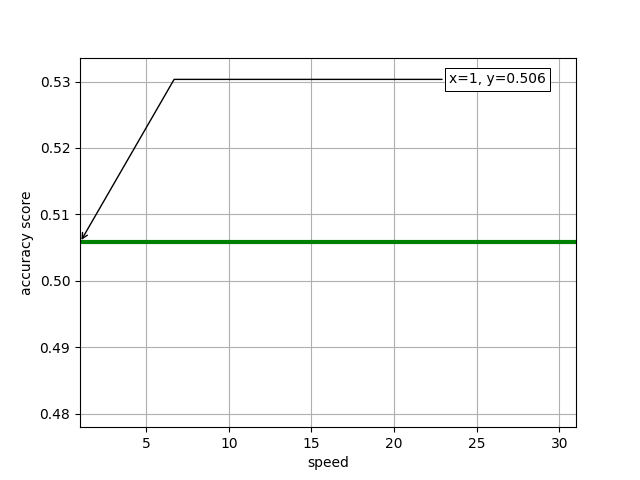
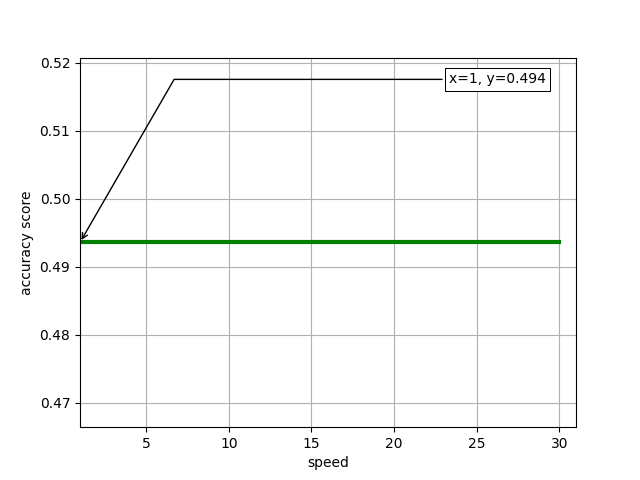
Edited to showcase pngs

diff --git a/offLineDQN2.py b/offLineDQN2.py
@@ -15,7 +15,6 @@ from sklearn.metrics import roc_curve, auc
 from sklearn.model_selection import train_test_split
 
 
-
 data = pd.read_csv('ClaMP_Raw-5184.csv', skipinitialspace=True)
 
 data.head()
@@ -23,21 +22,21 @@ data.head()
 
 cl = data['benign'].value_counts()
 cl2 = len(data['benign'])
-#class is classifying malicious and benign
+# class is classifying malicious and benign
 
 
 feature_col = ["e_lfanew", "NumberOfSections", "Characteristics", "SizeOfCode", "AddressOfEntryPoint", "SizeOfImage"]
 X = data[feature_col]
 y = data.benign
 
-#print(X.shape)
-#print(y.shape)
-#print(X.describe())
-#print(y.describe())
+# print(X.shape)
+# print(y.shape)
+# print(X.describe())
+# print(y.describe())
 
 #
 X_train, X_test, y_train, y_test = train_test_split(X, y, test_size = 0.3, random_state = 1)
-#print(X.shape())
+# print(X.shape())
 
 
 
@@ -46,10 +45,10 @@ X_test = normalize(X_test, norm = 'l1')
 
 
 
-#print(y_test.value_counts())
+# print(y_test.value_counts())
 
 
-#column creations for ML to read from (PANDAS)
+# column creations for ML to read from (PANDAS)
 column_names = ["e_lfanew", "NumberOfSections", "Characteristics", "SizeOfCode", "AddressOfEntryPoint", "SizeOfImage"
                 ]
 
@@ -103,8 +102,6 @@ class Environment1:
 env = Environment1(X_train, y_train)
 
 
-
-
 # return Q, total_losses, total_rewards
 
 # class Q-network
@@ -153,7 +150,7 @@ memory_size = 32
 batch_size = 8
 gamma = 0.97
 
-memory = []  # Replay Memory
+memory = []  # Replay memory
 total_step = 0
 total_rewards = []
 total_losses = []
@@ -170,7 +167,7 @@ accuracy_per_epoch = []
 
 
 def testing():
-    #testing: sets the environment's integration from dataset to train, execution part of training
+    # testing: sets the environment's integration from dataset to train, execution part of training
     test_env = Environment1(X_test, y_test)
     pobs = test_env.reset()
     test_acts = []
@@ -201,8 +198,9 @@ def testing():
     plt.ylabel('True Positive Rate')
     plt.title('Receiver Operating Characteristic (ROC) Curve')
     plt.legend(loc="lower right")
-    plt.show()
     plt.savefig('AUC.png')
+    plt.show()
+
 
 # accuracy between 49-50%
 
@@ -216,7 +214,7 @@ for epoch in range(epoch_num):
     total_loss = 0
     if not done and step < step_max:
 
-            # select that
+        # go through steps in training
         pact = np.random.randint(2)
         if np.random.rand() > epsilon:
             pact = Q(np.array(pobs, dtype=np.float32).reshape(1, -1))
@@ -272,51 +270,38 @@ for epoch in range(epoch_num):
             pobs = obs
             step += 1
             total_step += 1
-        #appending rewards/loss
+        # appending rewards/loss
         total_rewards.append(total_reward)
         total_losses.append(total_loss)
         if (epoch+1) % show_log_freq == 0:
             log_reward = sum(total_rewards[((epoch+1)-show_log_freq):])/show_log_freq
             log_loss = sum(total_losses[((epoch+1)-show_log_freq):])/show_log_freq
             elapsed_time = time.time()-start
-            print('\t'.join(map(str, [epoch+1, epsilon, total_step, log_reward, log_loss, elapsed_time])))
+            print('\t'.join(map(str, [epoch+1, epsilon, total_step, log_loss, elapsed_time])))
+            # epsilon: agent randomly explores action space at a higher rate
+            # loss function used in logistic regression
 
-            #30	1.0	0	0.0	0.0	3.4301397800445557
-
-
-
-
-
-
-#print('AUC: %.3f' % auc)
-
-
-
+            # 30	1.0	0	0.0	0.0	3.4301397800445557
 
 
 def annot_max(x, y, ax=None):
-    xmax = x[np.argmax(y)]
-    ymax = max(y)
-    text = "x={:}, y={:.3f}".format(xmax, ymax)
+    x_max = x[np.argmax(y)]
+    y_max = max(y)
+    text = "x={:}, y={:.3f}".format(x_max, y_max)
     if not ax:
         ax = plt.gca()
     bbox_props = dict(boxstyle="square,pad=0.3", fc="w", ec="k", lw=0.72)
-    arrowprops = dict(arrowstyle="->", connectionstyle="angle,angleA=0,angleB=60")
+    arrow_props = dict(arrowstyle="->", connectionstyle="angle,angleA=0,angleB=60")
     kw = dict(xycoords='data', textcoords="axes fraction",
-              arrowprops=arrowprops, bbox=bbox_props, ha="right", va="top")
-    ax.annotate(text, xy=(xmax, ymax), xytext=(0.94, 0.96), **kw)
-
-
-
-
+              arrowprops=arrow_props, bbox=bbox_props, ha="right", va="top")
+    ax.annotate(text, xy=(x_max, y_max), xytext=(0.94, 0.96), **kw)
 
 
 def main():
 
     testing()
-    x = [1, 2, 3, 4, 5, 6, 7, 8, 9, 10, 11, 12, 13, 14, 15, 16, 17, 18, 19, 20, 21, 22, 23, 24, 25, 26, 27, 28, 29, 30,
-         31]
-    y = accuracy_per_epoch * 31
+    x = [1, 2, 3, 4, 5, 6, 7, 8, 9, 10, 11, 12, 13, 14, 15, 16, 17, 18, 19, 20, 21, 22, 23, 24, 25, 26, 27, 28, 29, 30]
+    y = accuracy_per_epoch * 30
 
     plt.plot(x, y, color='green', linewidth=3)
     plt.xlim(1, 31)
@@ -325,9 +310,6 @@ def main():
     plt.grid(True)
     annot_max(x, y)
     plt.savefig('accuracy_graph.png')
-
-
-
 
 
 if __name__ == '__main__':

diff --git a/KNN.py b/KNN.py
@@ -77,22 +77,25 @@ def plot_classification_error(neighbors_list, MSE_list):
     plt.ylabel('Accuracy')
     plt.show()
 
-
+import matplotlib.pyplot as plt2
 # plot AUC curve
+
+
 def plot_roc_curve(y_test, prediction):
     fpr, tpr, threshold = roc_curve(y_test, prediction)
     roc_auc = auc(fpr, tpr)
 
-    plt.title('Receiver Operating Characteristics')
-    plt.plot(fpr, tpr, 'b', label='AUC = %0.2f' % roc_auc)
-    plt.legend(loc='lower right')
-    plt.plot([0, 1], [0, 1], 'r--')
-    plt.xlim([0, 1])
-    plt.ylim([0, 1])
-    plt.ylabel('TPR')
-    plt.xlabel('FPR')
-    plt.show()
-    plt.savefig('AUC')
+    plt2.title('Receiver Operating Characteristics')
+    plt2.plot(fpr, tpr, 'b', label='AUC = %0.2f' % roc_auc)
+    plt2.legend(loc='lower right')
+    plt2.plot([0, 1], [0, 1], 'r--')
+    plt2.xlim([0, 1])
+    plt2.ylim([0, 1])
+    plt2.ylabel('TPR')
+    plt2.xlabel('FPR')
+    plt2.savefig('AUC_KNN.png')
+    plt2.show()
+
 
 
 # main call
